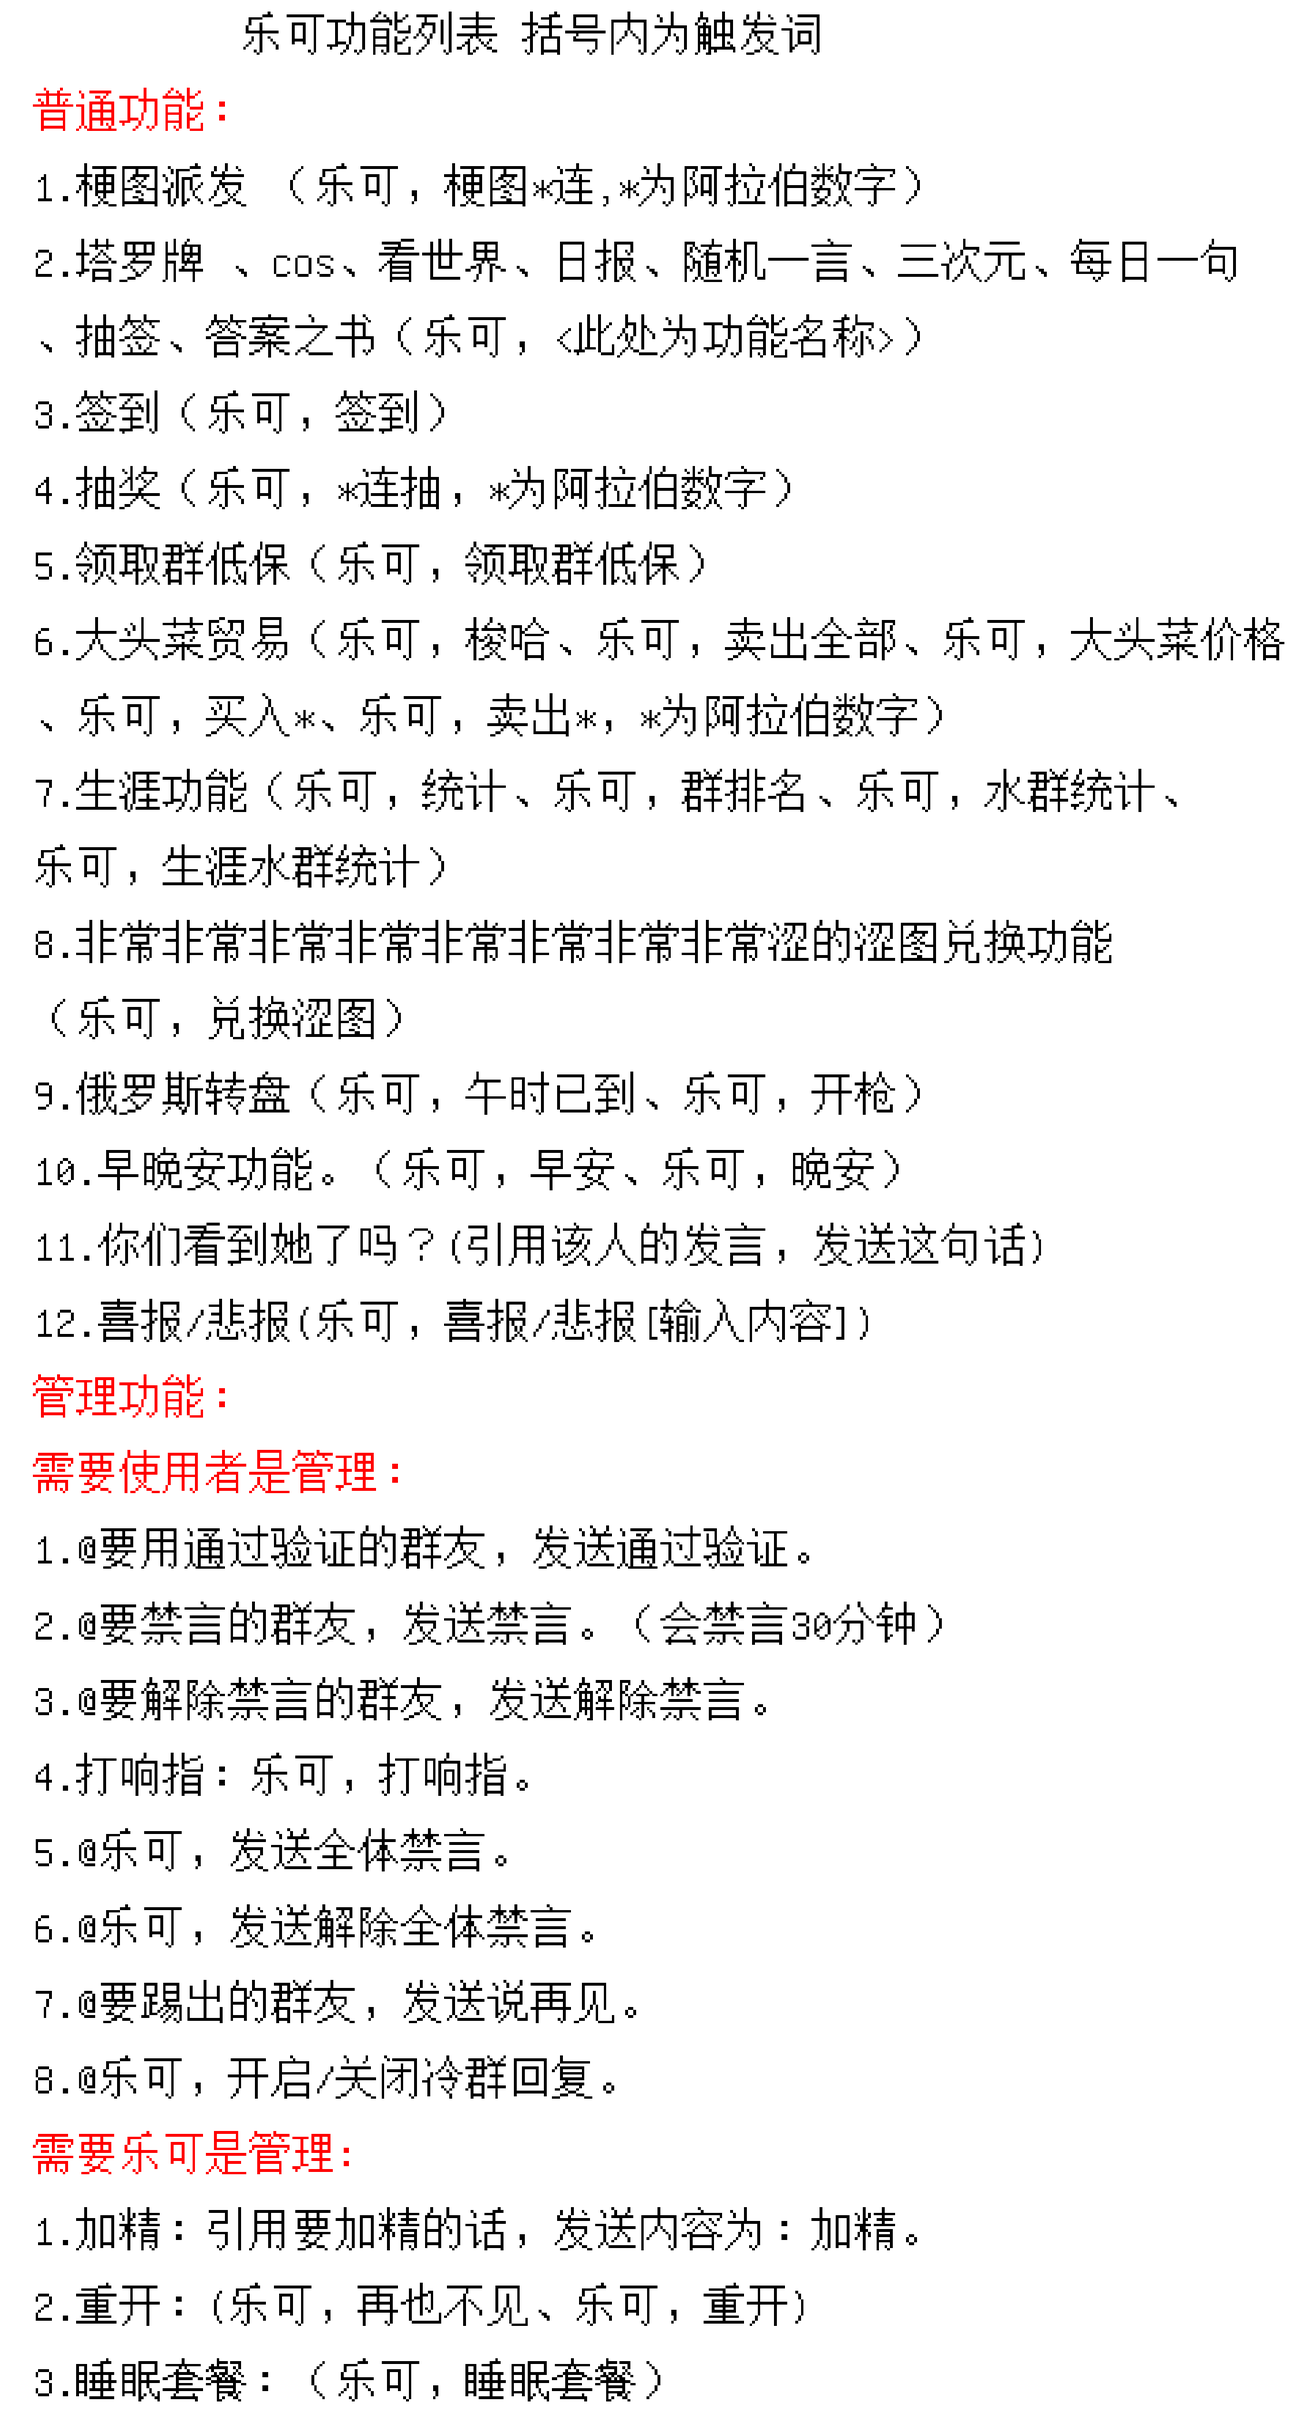
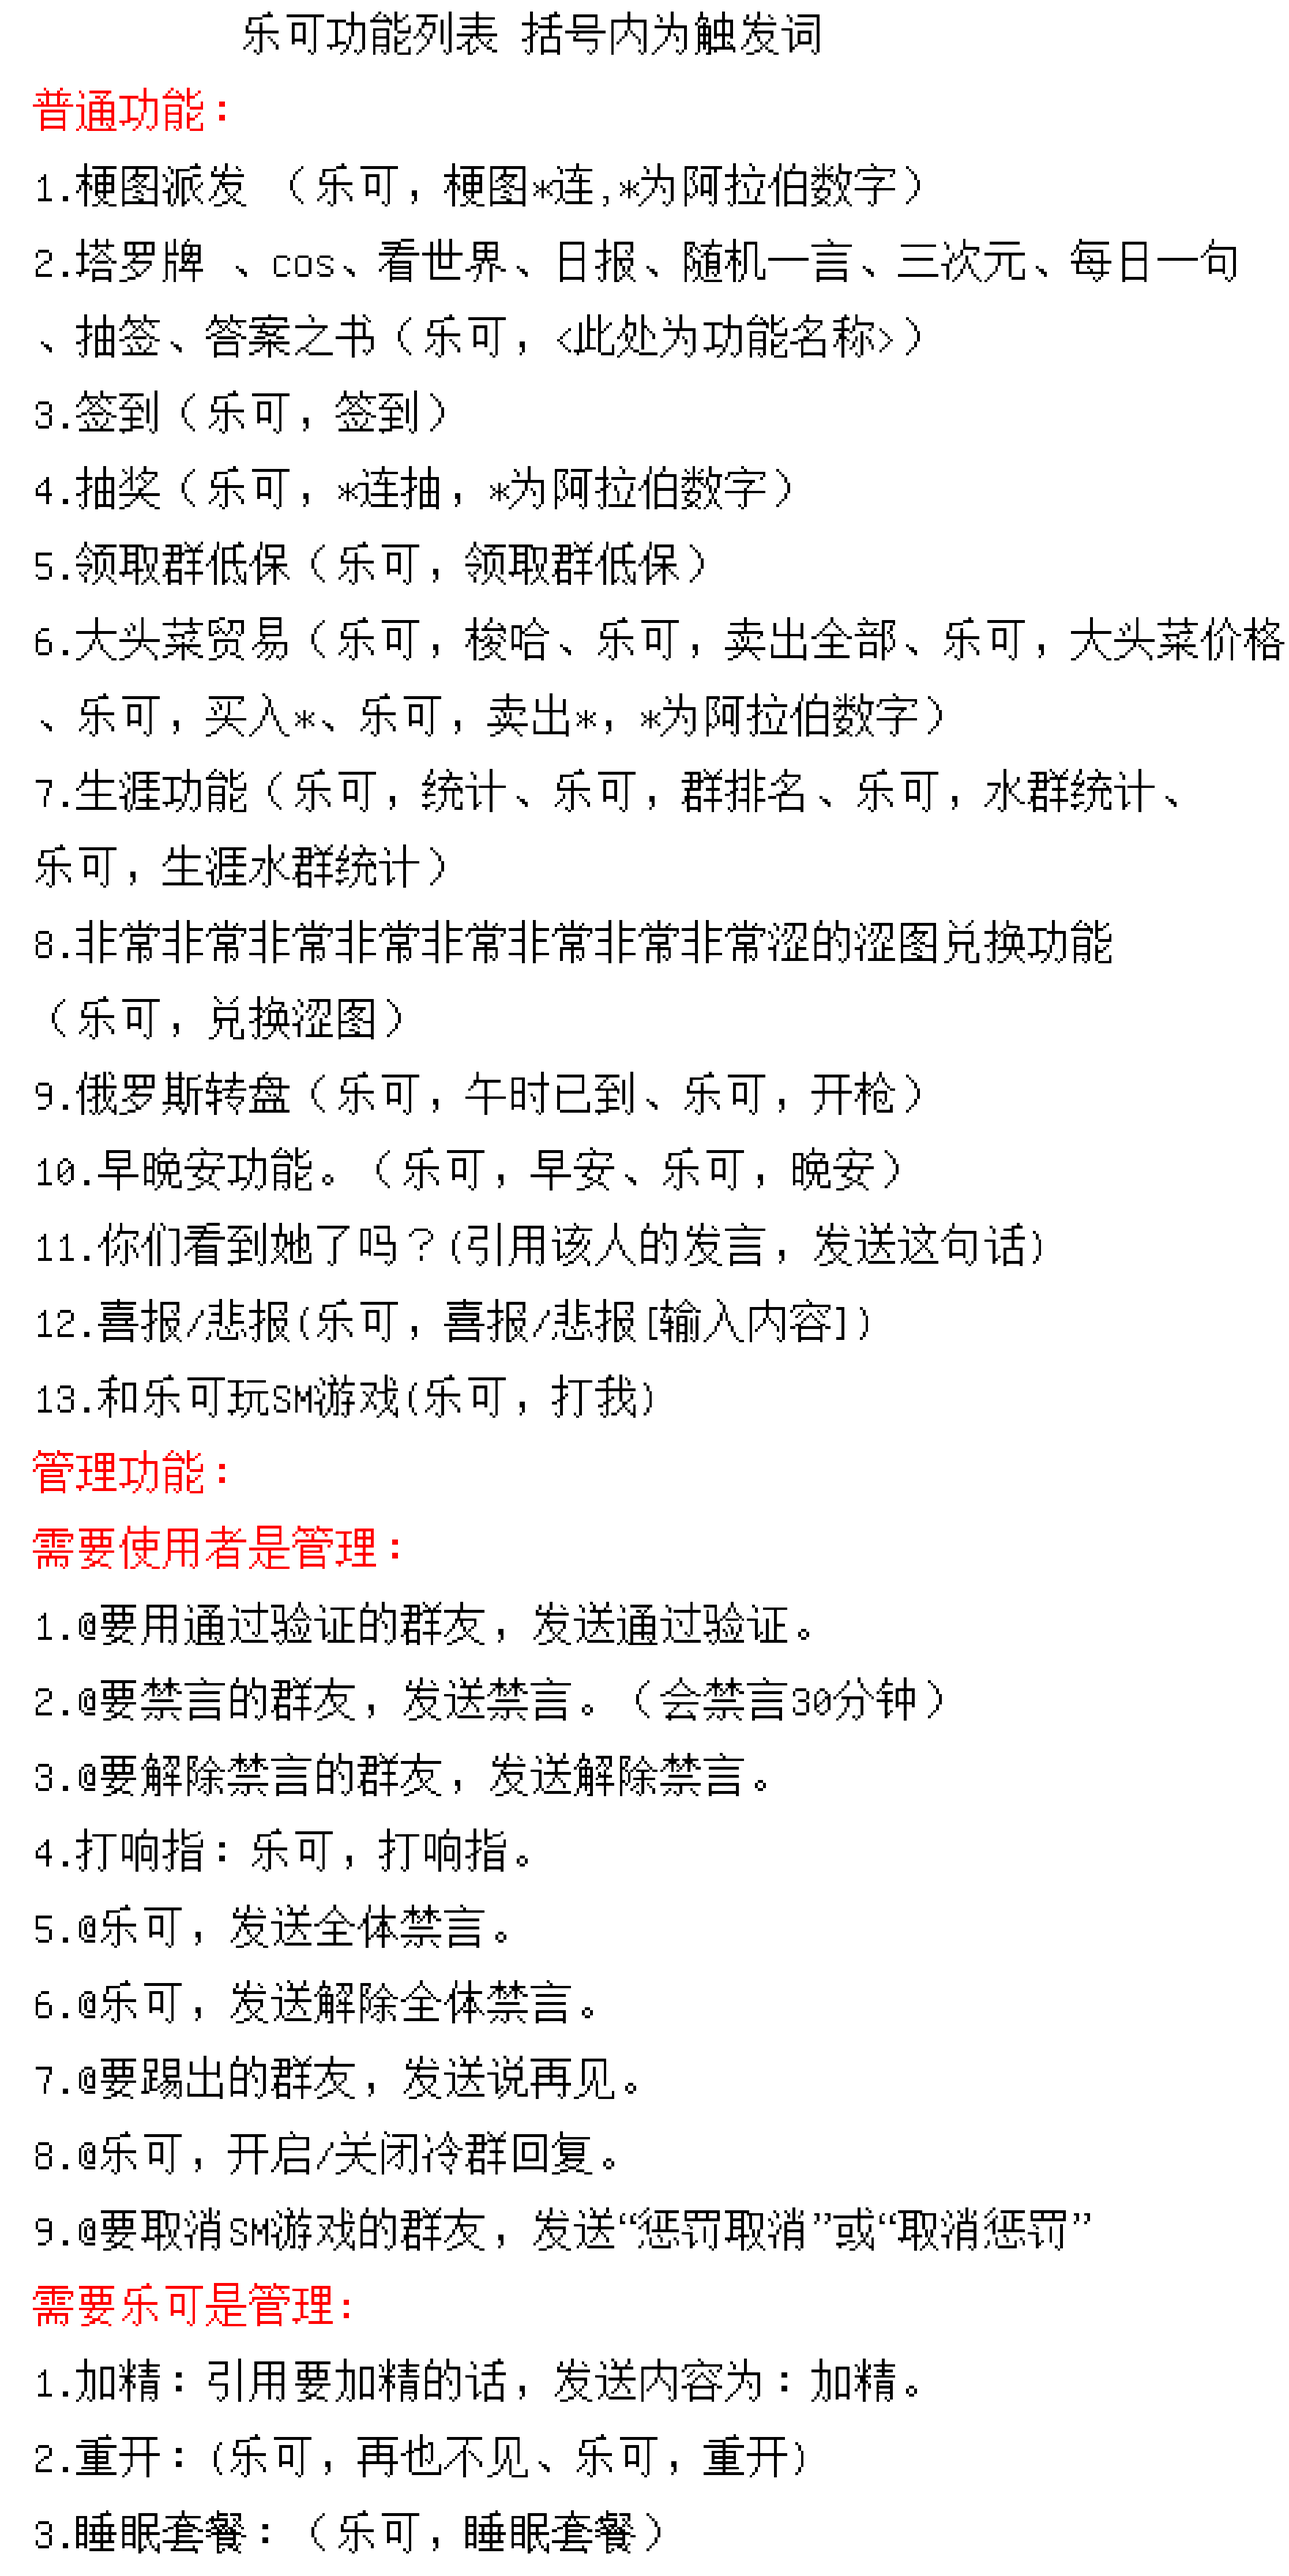
feat(main): 添加"打我"关键词处理功能
- 在处理消息时，增加对"打我"关键词的检测
- 当检测到"打我"关键词时，将用户添加到惩罚列表中
- 更新了功能图片，可能包含了新的功能说明

diff --git a/main.py b/main.py
@@ -1036,6 +1036,15 @@ async def echo(websocket):
                                                 )
                                             elif HasKeyWords(
                                                 message["message"][0]["data"]["text"],
+                                                ["打我"],
+                                            ):
+                                                AddAtPunishList(
+                                                    user_id,
+                                                    group_id,
+                                                    setting["defense_times"],
+                                                )
+                                            elif HasKeyWords(
+                                                message["message"][0]["data"]["text"],
                                                 ["再也不见", "重开"],
                                             ):
                                                 if BotIsAdmin(group_id) and not IsAdmin(
